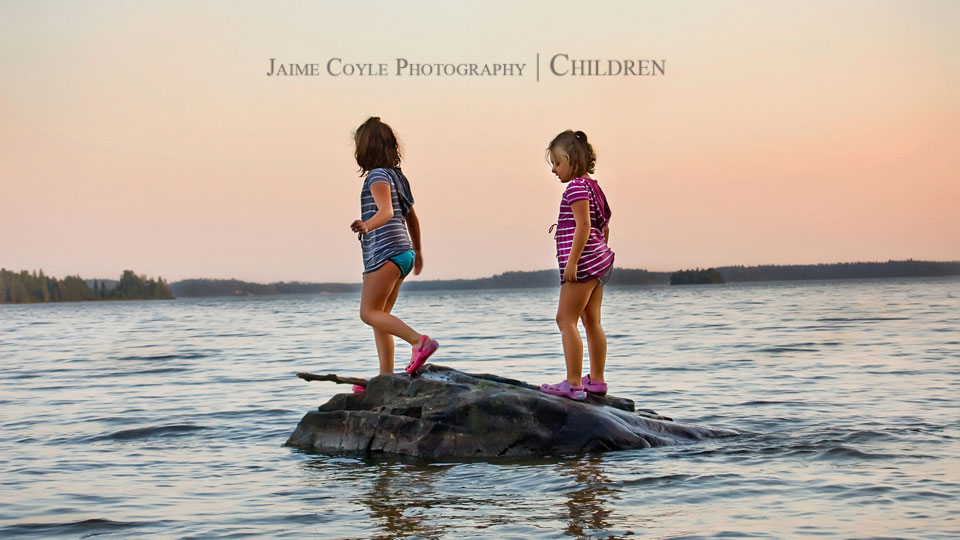
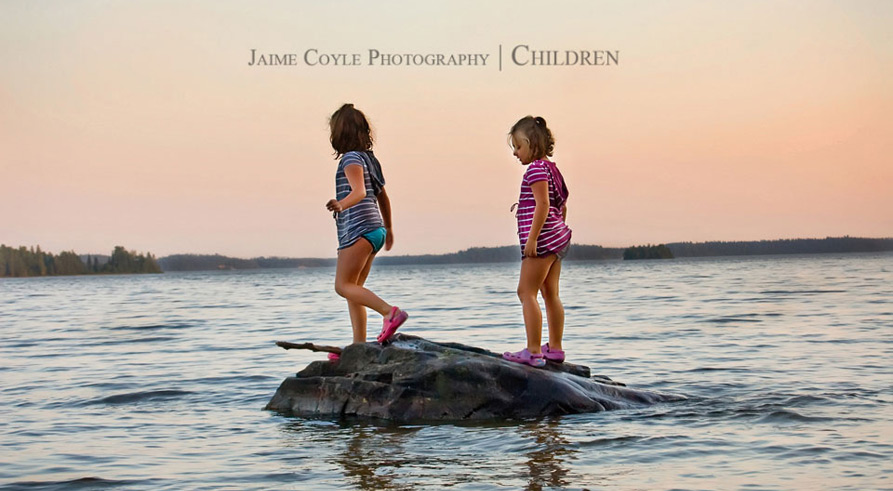
applied the default theme as a rails engine (using git submodule for the time being)

diff --git a/app/models/photographer.rb b/app/models/photographer.rb
@@ -12,11 +12,12 @@ class Photographer < ActiveRecord::Base
   validates :blog_url, :length => { :within => 10..255, :allow_blank => true }
   validates :facebook_url, :length => { :within => 10..255, :allow_blank => true }
   validates :twitter_url, :length => { :within => 10..255, :allow_blank => true }
+  validates :disqus_short_name, :length => { :within => 2..64, :allow_blank => true }
   validates :conversion_code, :length => { :within => 10..9000, :allow_blank => true }
 
   # ****
   # Mass-assignment protection
-  attr_accessible :email, :password, :password_confirmation, :name, :phone, :blog_url, :facebook_url, :twitter_url, :google_analytics_key, :remember_me
+  attr_accessible :email, :password, :password_confirmation, :name, :phone, :blog_url, :facebook_url, :twitter_url, :google_analytics_key, :disqus_short_name, :conversion_code, :remember_me
 
   # ****
   # Attachments

diff --git a/spec/models/photographer_spec.rb b/spec/models/photographer_spec.rb
@@ -19,6 +19,7 @@ describe Photographer do
   it { should ensure_length_of(:blog_url).is_at_least(10).is_at_most(255) }
   it { should ensure_length_of(:facebook_url).is_at_least(10).is_at_most(255) }
   it { should ensure_length_of(:twitter_url).is_at_least(10).is_at_most(255) }
+  it { should ensure_length_of(:disqus_short_name).is_at_least(2).is_at_most(64) }
 
   it "shoud be protected from mass attribute assignment" do
     time = 2.days.ago

diff --git a/db/migrate/20110813190454_create_photographers.rb b/db/migrate/20110813190454_create_photographers.rb
@@ -18,6 +18,7 @@ class CreatePhotographers < ActiveRecord::Migration
       t.string :facebook_url
       t.string :twitter_url
       t.string :google_analytics_key, :limit => 16
+      t.string :disqus_short_name, :limit => 64
       t.text :conversion_code
 
       t.integer :gallery_photos_count, :null => false, :default => 0

diff --git a/app/uploaders/cover_uploader.rb b/app/uploaders/cover_uploader.rb
@@ -15,7 +15,7 @@ class CoverUploader < CarrierWave::Uploader::Base
   end
 
   # Resize the original
-  process :resize_to_limit => [960, 540]
+  process :resize_to_limit => [893, 491]
 
   version :medium do
     process :resize_to_limit => [300, 200]

diff --git a/db/seeds.rb b/db/seeds.rb
@@ -6,7 +6,6 @@ p = Photographer.create(
   :password_confirmation => "password",
   :blog_url => 'http://rapin.com',
   :twitter_url => 'http://twitter.com/#!/rapind',
-  :theme => 'default',
   :google_analytics_key => 'UA-2450369-23'
 )
 

diff --git a/app/controllers/home_controller.rb b/app/controllers/home_controller.rb
@@ -1,9 +1,6 @@
 class HomeController < ApplicationController
-  layout 'public'
+  layout 'theme'
   before_filter :load_photographer, :load_portfolios, :load_pages
-
-  def index
-  end
 
   private #----
 
